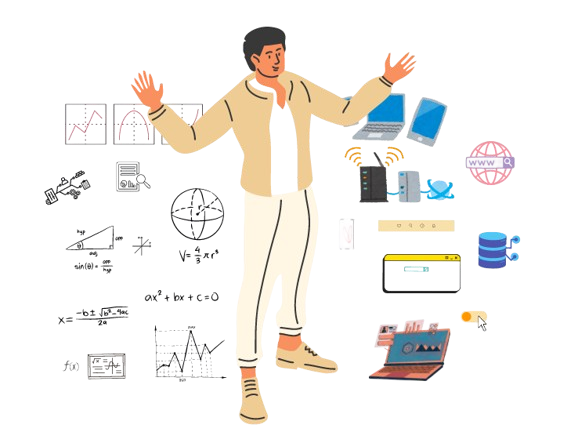
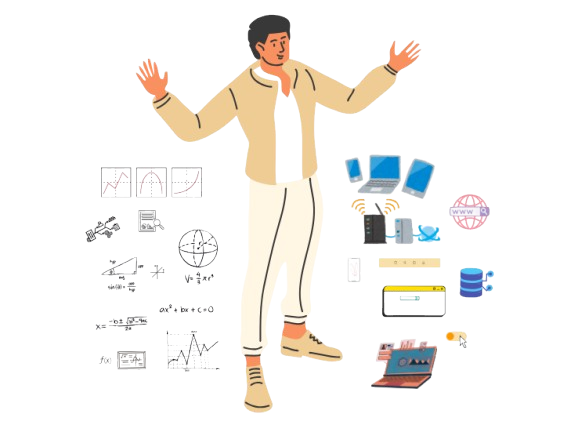
Stable Changes

Changed region(s): [[0.0623, 0.0301, 0.9031, 0.9931], [0.0934, 0.7523, 0.3737, 0.9028], [0.8097, 0.331, 0.9031, 0.4514]]

diff --git a/src/layouts/function-components/HomepageTab.jsx b/src/layouts/function-components/HomepageTab.jsx
@@ -6,7 +6,7 @@ const HomepageTab = ({ homepage_tab: { tab_list, title, description } }) => {
   const [tab, setTab] = useState(0);
   return (
     <div className="tab gx-5 row items-center">
-      <div className="lg:col-7 lg:order-2">
+      <div className="lg:col-7 lg:order-2 border-l-2">
         <div className="tab-content">
           {tab_list.map((item, index) => (
             <div

diff --git a/src/content/homepage/index.md b/src/content/homepage/index.md
@@ -1,64 +1,71 @@
 ---
 banner:
   title: "Fullstack Engineering from the ground up"
-  content: "Computer Science Primer is a curriculum to master foundational cs subjects along with real-world development skills needed to become a fullstack developer."
+  content: "Computer Science Primer is a curriculum to Master Core CS Fundamentals and Real-World Development Skills to Become a 10x Developer."
   image: /images/banner-img.png
   button:
-    label: Checkout Courses
-    link: "https://www.youtube.com/channel/UCxnwwhbLSLQBXXjD0aDVoJw"
+    label: Start with a Series
+    link: "/courses"
     enable: true
 
 features:
-  title: The 6 categories <br /> to specialize in 
+  title: The 6 Subjects <br /> to work on 
   features_list:
     - title: Development
-      content: Building full-stack web applications with Node.js, React, and more.
+      content: Build complete web applications from concept to deployment. Gain the expertise to develop and launch industry-grade web solutions.
     - title: Development++
-      content: Designing systems, AWS, Devops, and more.
+      content: Advance your skill set with Git, AWS, DevOps, and Microservices, building resilient and scalable systems.
+    - title: UI/UX & Product 
+      content: It never hurts a developer to have cross-functional skills, collaborating effectively with designers and product managers.
     - title: Core Computer Science
-      content: Fundamental theoritical subjects like OS, DBMS, and more.
-    - title: Problem Solving
-      content: Solve problems using Data Structures and Algorithms in Java.
-    - title: Electives
-      content: Topics that are'nt "Primer" like Product Management, AI and more.
+      content: Master foundational subjects like Operating Systems, Computer Networks, Databases and more.
+    - title: Data Structures & Algorithms
+      content: Strengthen your problem-solving skills with DSA in Java.
+    - title: System Design
+      content: Design APIs, architect systems, and learn design patterns for both low-level and high-level solutions.
+    
   homepage_tab:
-    title: Each category has a set of courses
-    description: Focus is on mastering web development and DSA, but the whole point of CSP is to get better on other subjects too.
+    title: Roadmap of each Subject
+    description: Follow structured paths to mastery, with clear milestones for every topic from fundamentals to advanced concepts.
     tab_list:
         - title: Development
           icon: "code"  #icon package react-feather-icon [https://feathericons.com/]
-          image: "/images/categories/development.png"
+          image: "/images/categories/1.png"
         - title: Development++
           icon: "anchor"  #icon package react-feather-icon [https://feathericons.com/]
-          image: "/images/categories/developmentplus.png"
-        - title: Problem Solving
+          image: "/images/categories/2.png"
+        - title: UI/UX & Product 
           icon: "filter"  #icon package react-feather-icon [https://feathericons.com/]
-          image: "/images/categories/problemsolving.png"
+          image: "/images/categories/3.png"
         - title: Core Computer Science
           icon: "cpu"  #icon package react-feather-icon [https://feathericons.com/]
-          image: "/images/categories/corecs.png"
-        - title: Electives
+          image: "/images/categories/4.png"
+        - title: Data Structures & Algorithms
           icon: "coffee"  #icon package react-feather-icon [https://feathericons.com/]
-          image: "/images/categories/electives.png"
+          image: "/images/categories/5.png"
+        - title: System Design
+          icon: "coffee"  #icon package react-feather-icon [https://feathericons.com/]
+          image: "/images/categories/6.png"
 #service
 service:
   our_service:
-    - title: What is the aim of Computer Science Primer?
-      desctiption: Donec sollicitudin molestie malesda. Donec sollitudin molestie malesuada. Mauris pellentesque nec, egestas non nisi. Cras ultricies ligula sed
+    - title: What is the Aim of Computer Science Primer?
+      description: Move beyond the Development vs. DSA debate. The goal is to become a great problem solver with expertise across multiple facets of Computer Science Engineering.
       image: "/images/collaboration.png"
       list:
-        - Become a fullstack Web-Dev engineer
-        - Develop problem solving skills with DSA
-        - Have strong foundations in Core CS subjects
-        - Develop a habit of learning new things
-    - title: Work on real-world projects
-      description: By the end of the CSP syllabus, one should be able to build real-world projects and become an amazing problem solver.
+        - Become a Full-Stack Web Developer
+        - Master problem-solving skills with DSA
+        - Build a solid foundation in core CS subjects
+        - Cultivate a habit of continuous learning
+   
+    - title: Join the Learning Journey
+      description: I’m completing the CSPrimer syllabus alongside you. Along the way, I’ll share blog series, videos, handwritten notes, open-source projects, roadmaps, and resources for each subject-everything you need to dive in and become a 10x Developer.
+
       video:
         thumbnail: "/images/intro-thumbnail.png"
         video_id: "mdi7F-e91iU"
       button:
-        label: Start with a Course
+        label: Start with a Series
         link: "/courses"
         enable: true
-
 ---
